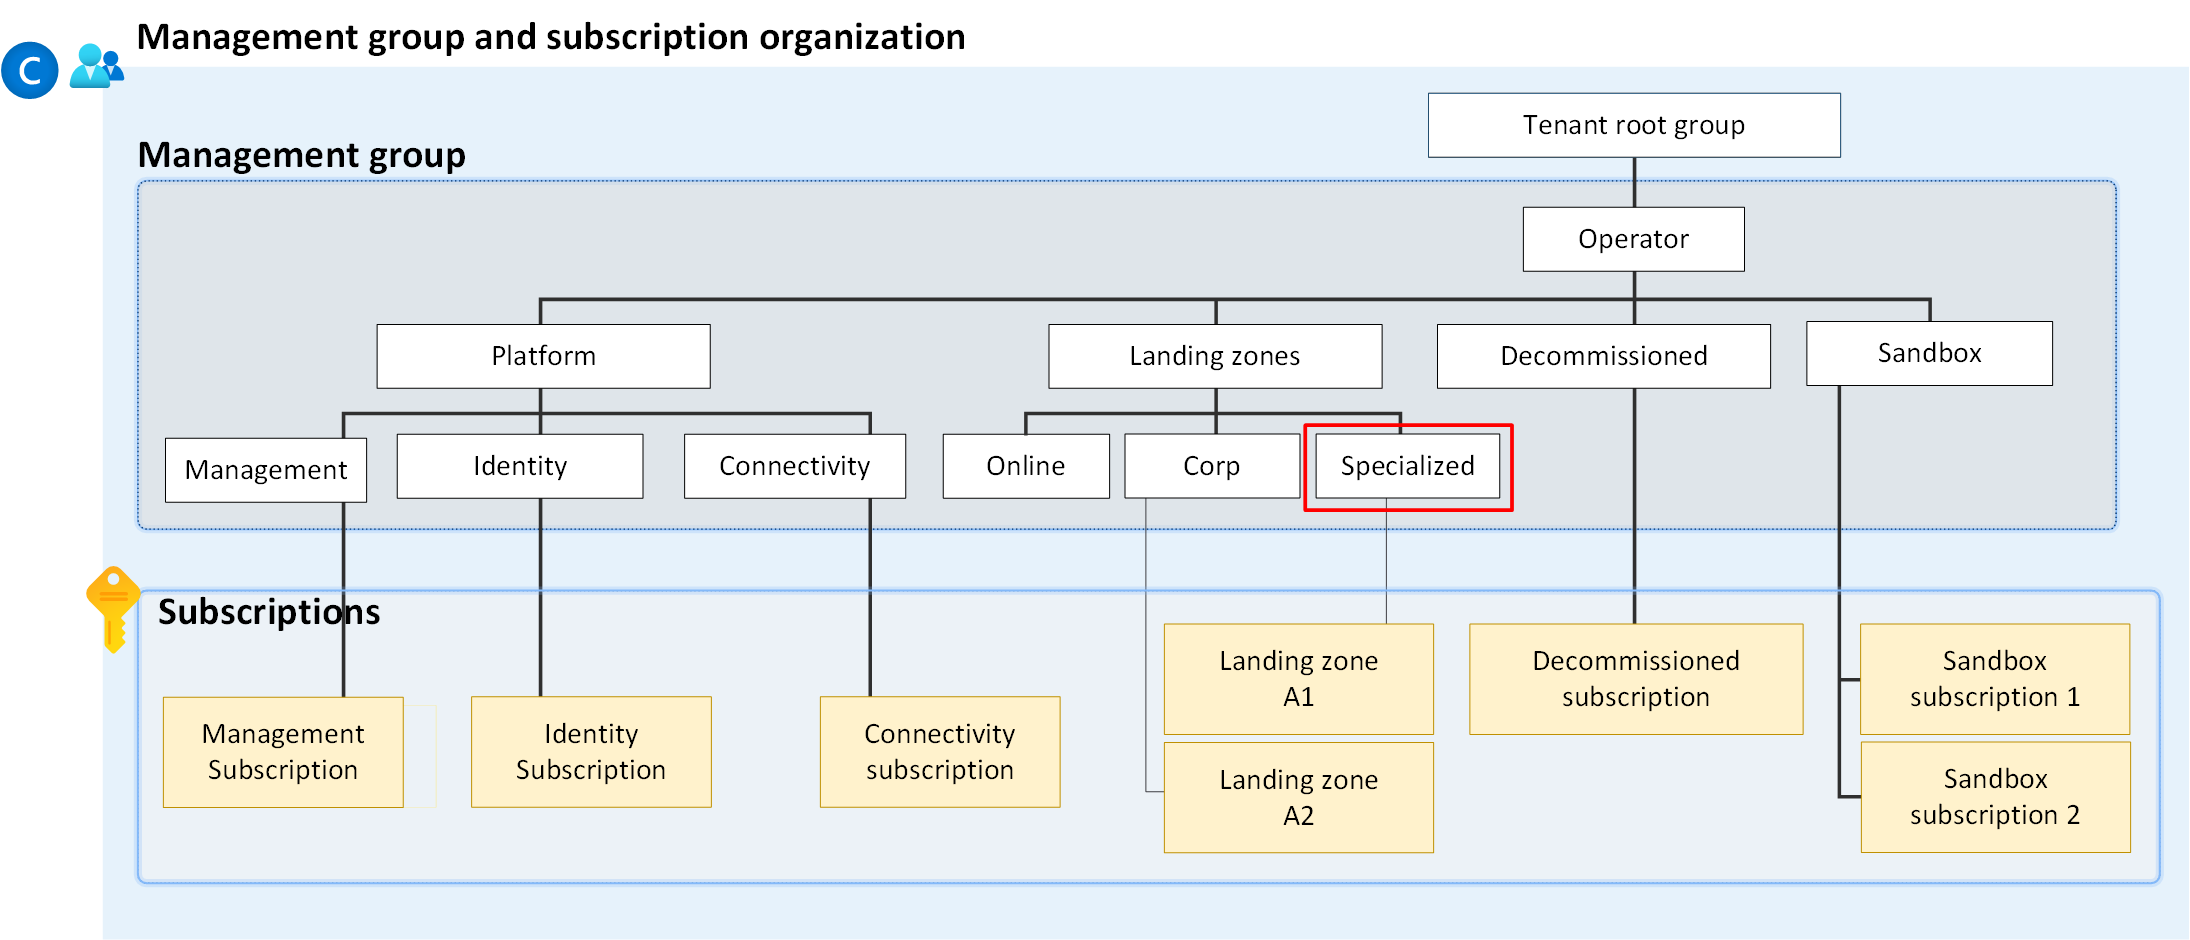
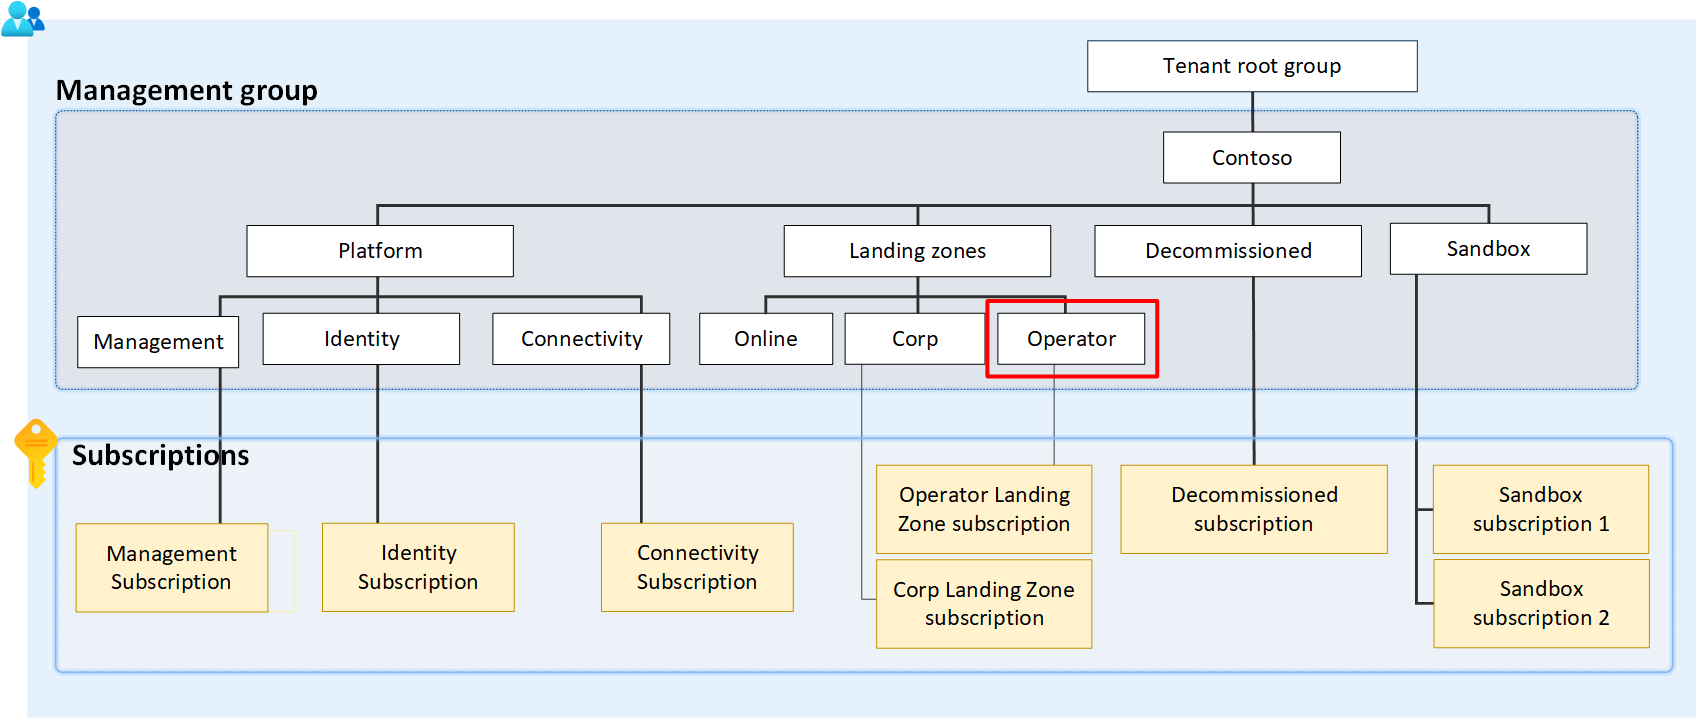
governance section updates

diff --git a/telco/docs/telco-governance.md b/telco/docs/telco-governance.md
@@ -1,23 +1,26 @@
 # Governance for Telco Industry Scenarios
 
-In general, any application composition can be deployed, managed and governed in Azure using the existing prescriptive and architecture guidance provided in Cloud Adoption Framework. However, some applications typical for the Telco industry, such as those that provide managed services to end customers (B2C), or businesses (B2B) require additional sets of controls and governance that are different from the traditional LoB applications and cloud native applications.
+In general, any application composition can be deployed, managed and governed in Azure using the existing prescriptive and architecture guidance provided in Cloud Adoption Framework. However, some applications typical for the Telco industry, such as those that provide managed services to end customers (B2C), to businesses (B2B), or specialized telco applications such as packet core, require additional sets of controls and governance that are different from the traditional LoB applications and cloud native applications.
 
-Telco industry specific applications typically provide services such as Core CP, SBC, vIMS, vHSS, Thin/uCPE, SDWAN, vFW, vRouter, vLTM, CGNAT, vBNG, DDI and vRADIUS/DIAMETER among others.
+>Telco industry specific applications typically provide services such as Core CP, SBC, vIMS, vHSS, Thin/uCPE, SDWAN, vFW, vRouter, vLTM, CGNAT, vBNG, DDI and vRADIUS/DIAMETER among others.
 
-For example, B2B and B2C telco applications may require deploying their own ExpressRoute Gateways so they can use dedicated ExpressRoute circuits to the access network for data plane traffic, while other dedicated circuits can provide connectivity to on-premises network for control plane traffic. Another example would be applications that require public IPs in their Landing Zones, or the need to have IP forwarding capabilities on VM NICs.
+As an example, those specialized telco applications may require deploying their own ExpressRoute Gateways so they can use dedicated ExpressRoute circuits for user and data plane traffic, while other dedicated circuits can provide connectivity to on-premises network for control plane traffic. Another example would be applications that require public IPs in their Landing Zones, or the need to have IP forwarding capabilities on VM NICs.
+
+* [Management Group](management-group)
+* [Azure Policies](azure-policies)
 
 ## Management Group
 
-Given these specialized requirements and to cater for scalability for Telco industry specific scenarios in landing zones, the Azure for Telco industry reference architecture recommends the creation a new Management Group dedicated to Telco industry specific applications and services.
+Given these specialized requirements and to cater for scalability for specialized Telco workloads in Azure, the AfO Landing Zones reference architecture recommends the creation a new Management Group dedicated to Telco specific applications and services.
 
 Azure policies that are designed to govern and manage those applications can be assigned to ensure Telco applications are compliant, and configured with high-availability as default at this scope. Subscriptions dedicated for such applications would need to be deployed under this new management group, which is depicted in figure 1 below:
 
 ![Management workloads](./management-group-telco.png)
-_Figure 1: Management group for business to business and business to customer applications._
+_Figure 1: Management group for specialized telco workloads._
 
 ## Azure Policies
 
-The following table summarizes the Azure Policies that are recommended to be assigned at the Management Group dedicated for Telco industry scenarios:
+The following table summarizes the Azure Policies that are recommended to be assigned at the Management Group dedicated for specialized telco workloads:
 
 | Policy                                      | Description                                                                                         | Version |
 |---------------------------------------------|-----------------------------------------------------------------------------------------------------|---------|
